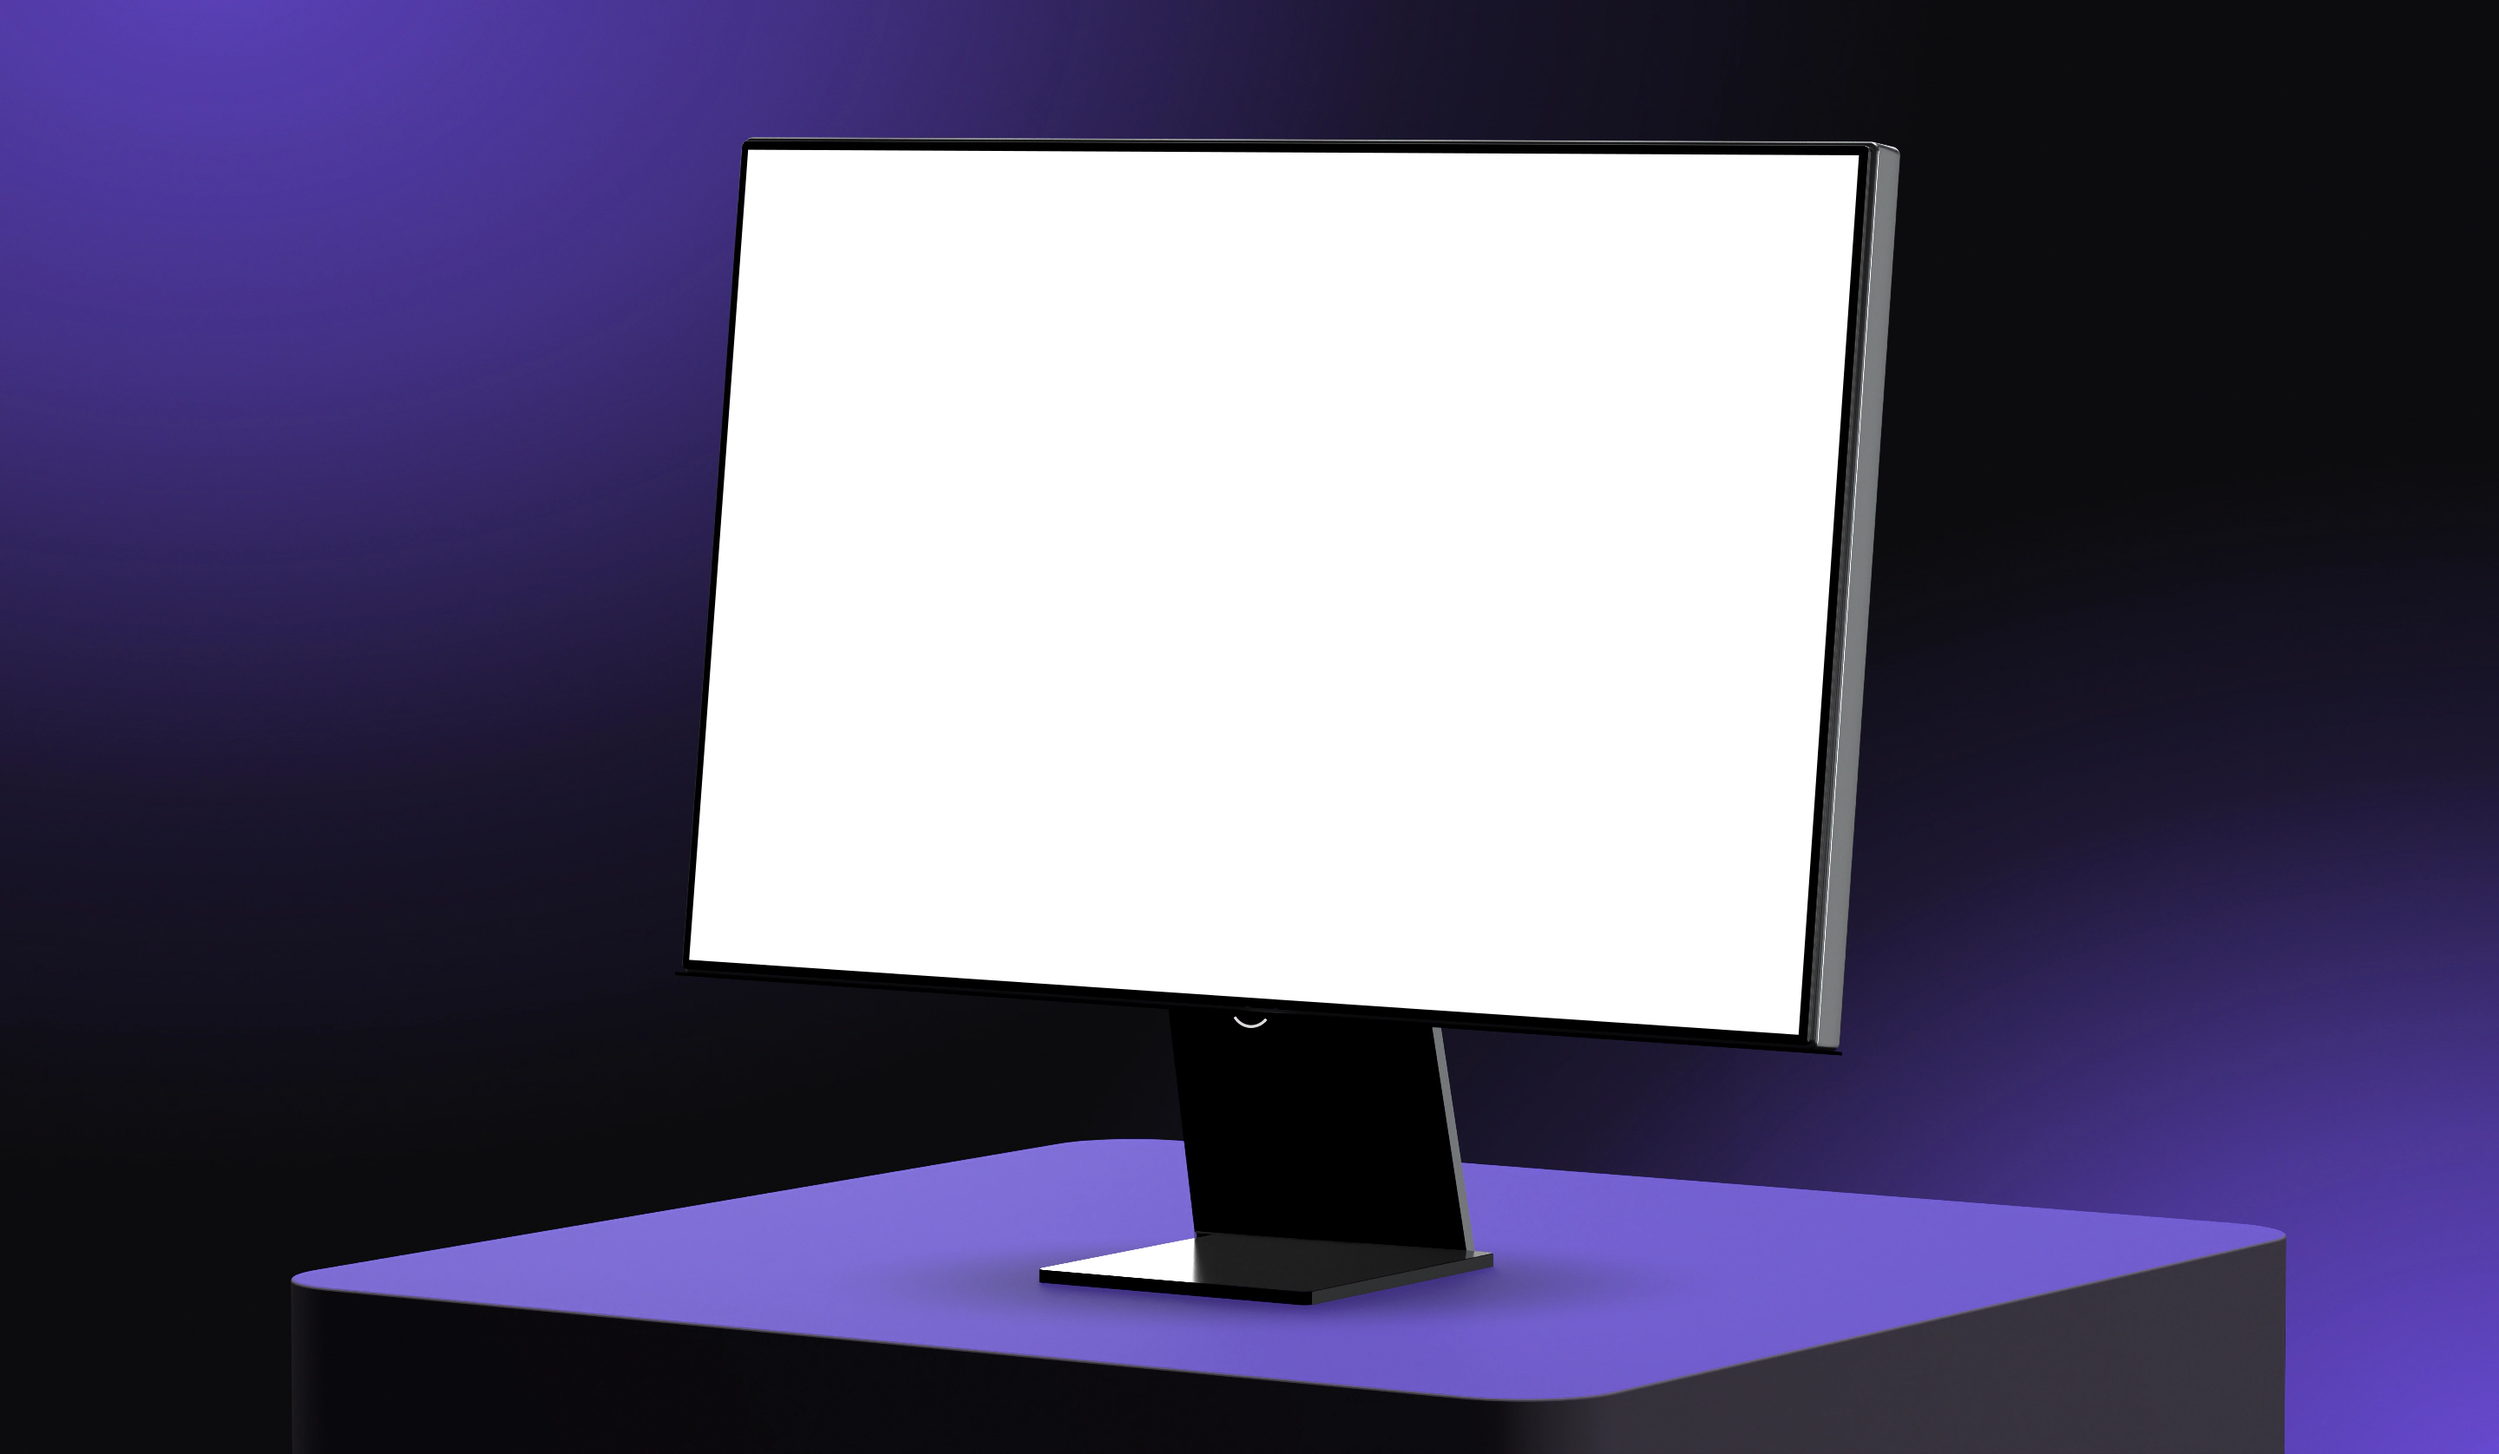
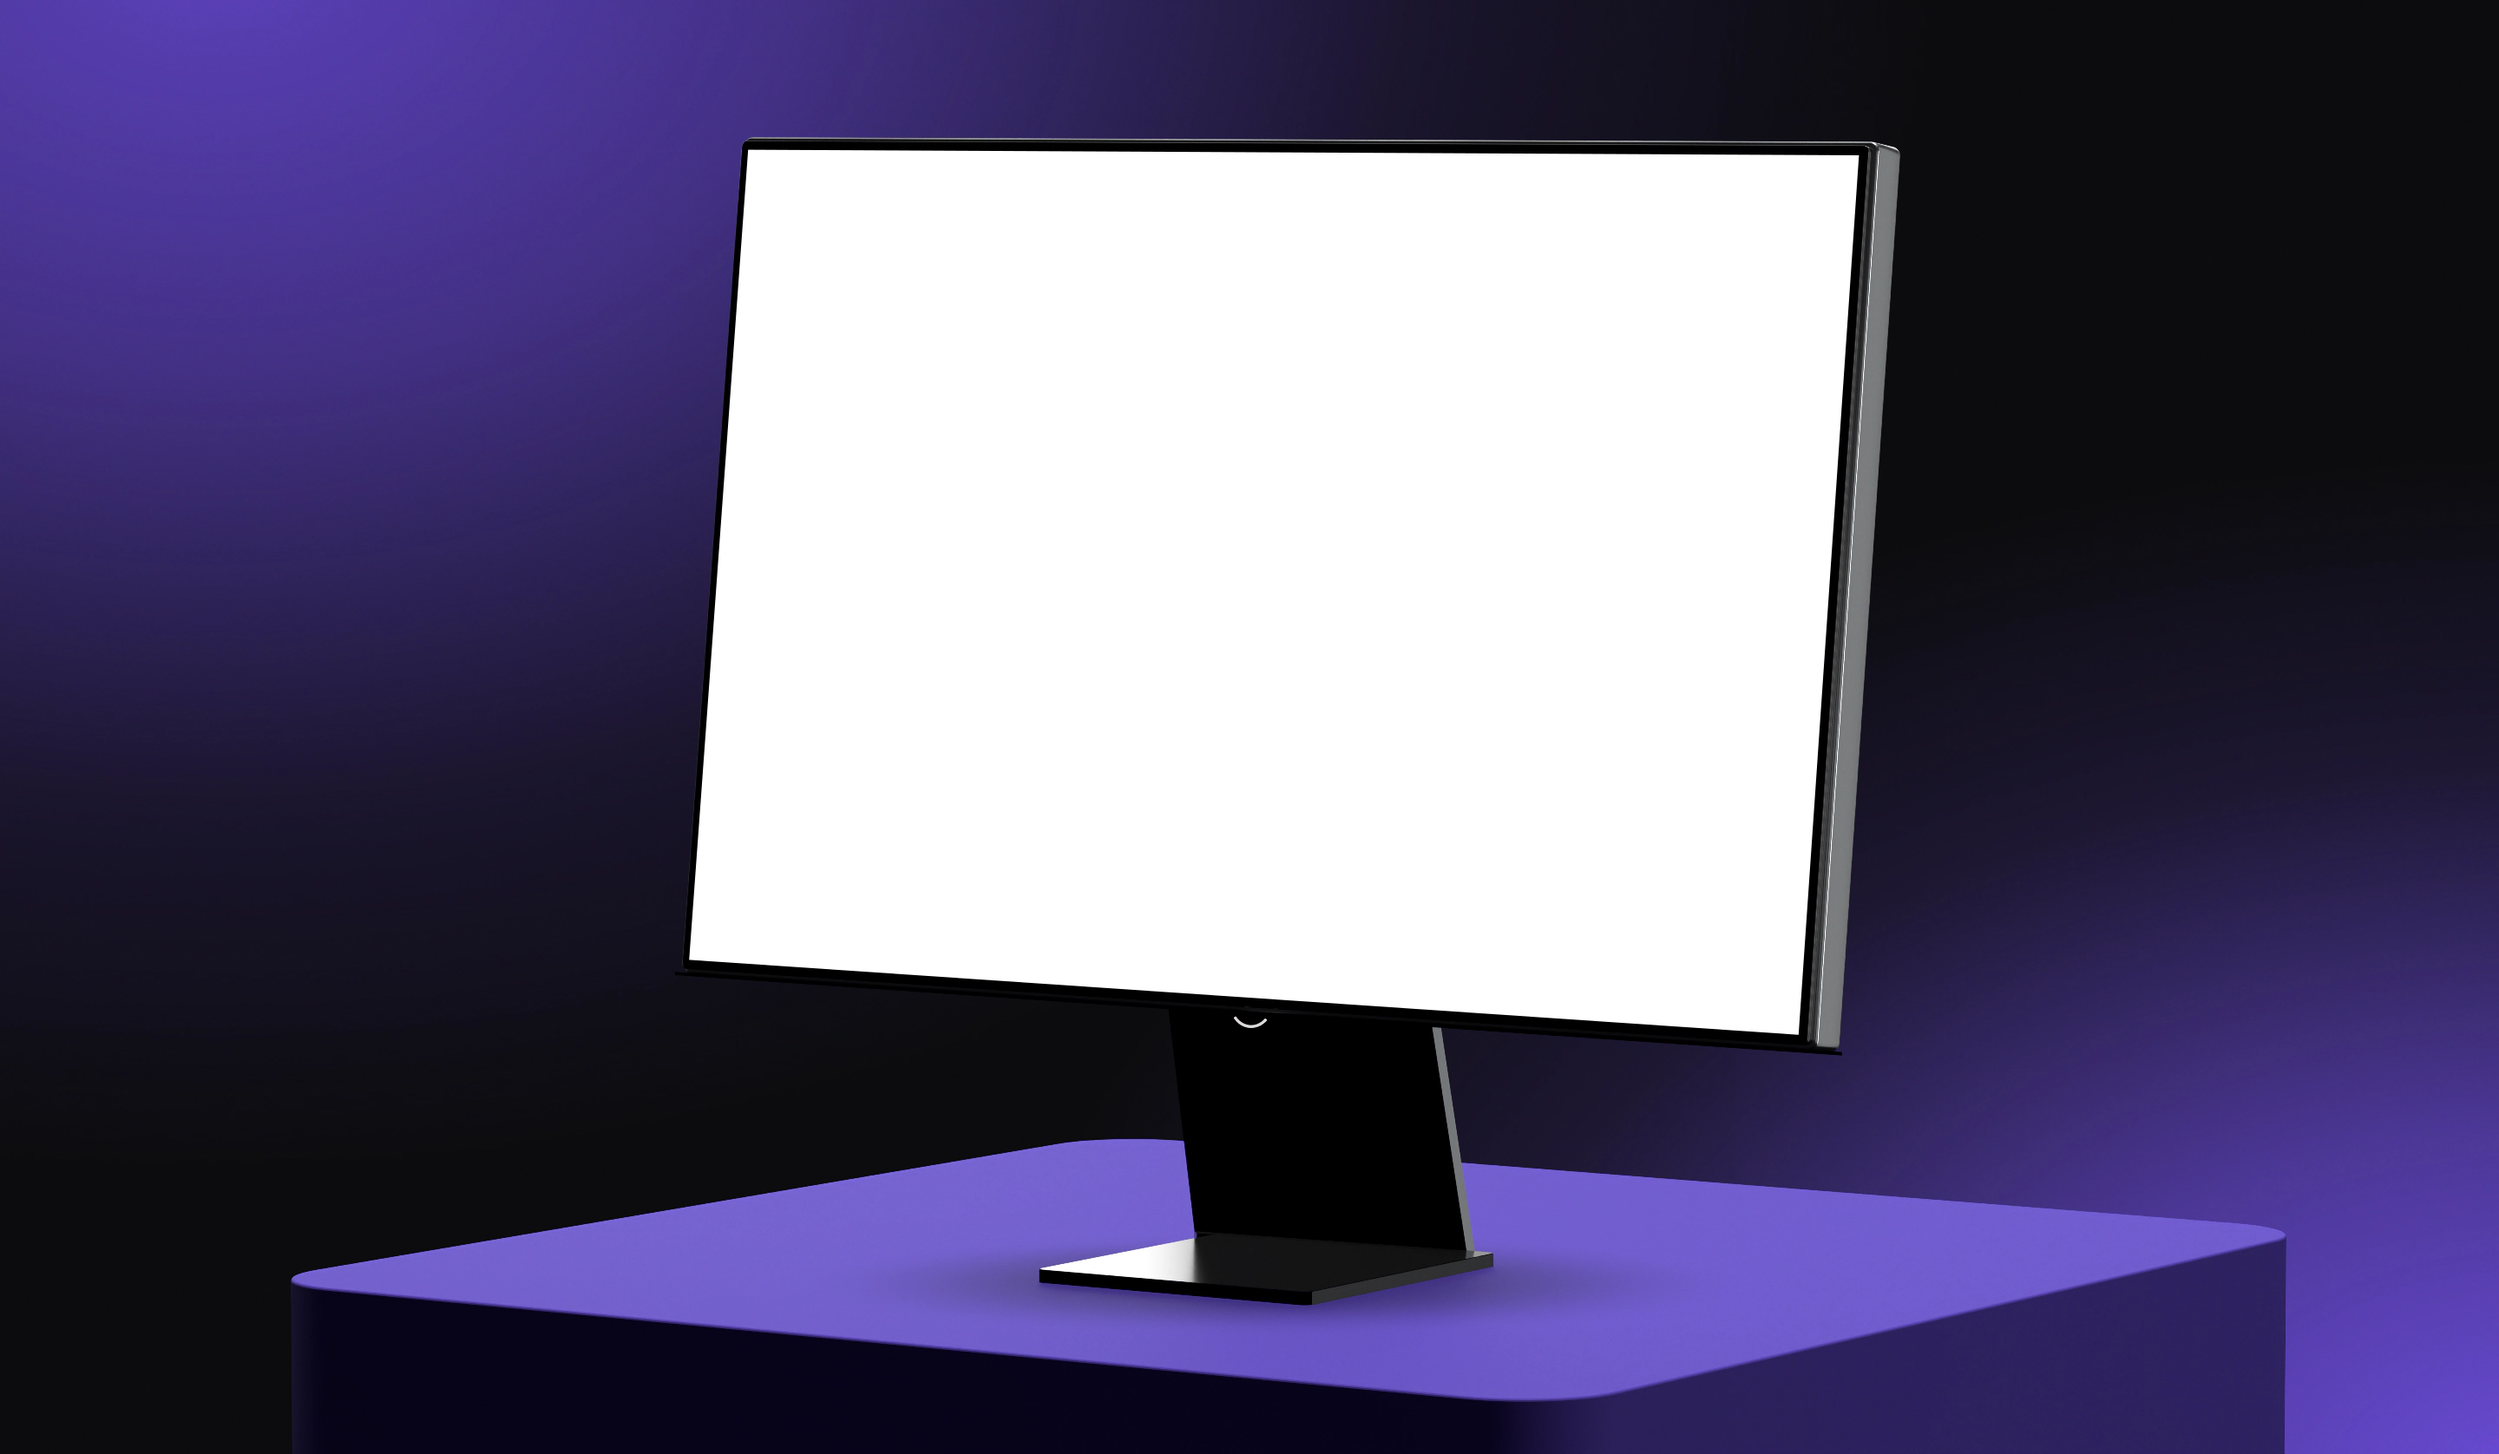
Devsign cover: plinth sides back to violet, dimmer foot glint

Changed region(s): [[0.5938, 0.8377, 0.9375, 1.0], [0.4688, 0.8377, 0.5, 0.8998]]

diff --git a/scripts/cover-3d/blender_scene.py b/scripts/cover-3d/blender_scene.py
@@ -139,12 +139,12 @@ def shade_around_foot(m):
     mul = nt.nodes.new('ShaderNodeVectorMath'); mul.operation = 'SCALE'
     mul.inputs[0].default_value = b.inputs['Base Color'].default_value[:3]
     nt.links.new(rng.outputs[0], mul.inputs['Scale'])
-    # The sides are a greyer, less blue violet than the lit top.
+    # The sides share the top's violet; only the light differs.
     sep = nt.nodes.new('ShaderNodeSeparateXYZ'); nt.links.new(geo.outputs['Normal'], sep.inputs[0])
     up = nt.nodes.new('ShaderNodeMath'); up.operation = 'GREATER_THAN'; up.inputs[1].default_value = 0.9
     nt.links.new(sep.outputs['Z'], up.inputs[0])
     mix = nt.nodes.new('ShaderNodeMix'); mix.data_type = 'RGBA'
-    mix.inputs['A'].default_value = srgb('#5e5868')
+    mix.inputs['A'].default_value = srgb('#4d3a9c')
     nt.links.new(up.outputs[0], mix.inputs['Factor'])
     nt.links.new(mul.outputs[0], mix.inputs['B'])
     nt.links.new(mix.outputs['Result'], b.inputs['Base Color'])
@@ -233,7 +233,7 @@ area('right', (7.5, 0.4, 2.2), (0.6, -0.4, 0), 1.6, 5, 150)
 area('edge', (9.0, 0.6, -3.7), (0, 0.8, -0.3), 5, 12, 62)
 area('back', (-0.5, 3.4, -10), (0, 0.2, 0), 12, 3, 260)
 # Low behind the set: what the mirror-dark foot picks up on its left.
-area('foot', (-1.6, 1.5, -10.5), (-0.6, 0.27, -0.6), 2.9, 1.6, 120)
+area('foot', (-1.6, 1.5, -10.5), (-0.6, 0.27, -0.6), 2.9, 1.6, 40)
 area('left', (-9, 0.6, -6), (0, 0.4, -0.8), 3, 6, 70)
 area('front', (0.5, 2.2, 9), (0, 0.6, 0), 8, 2.4, 34)
 
